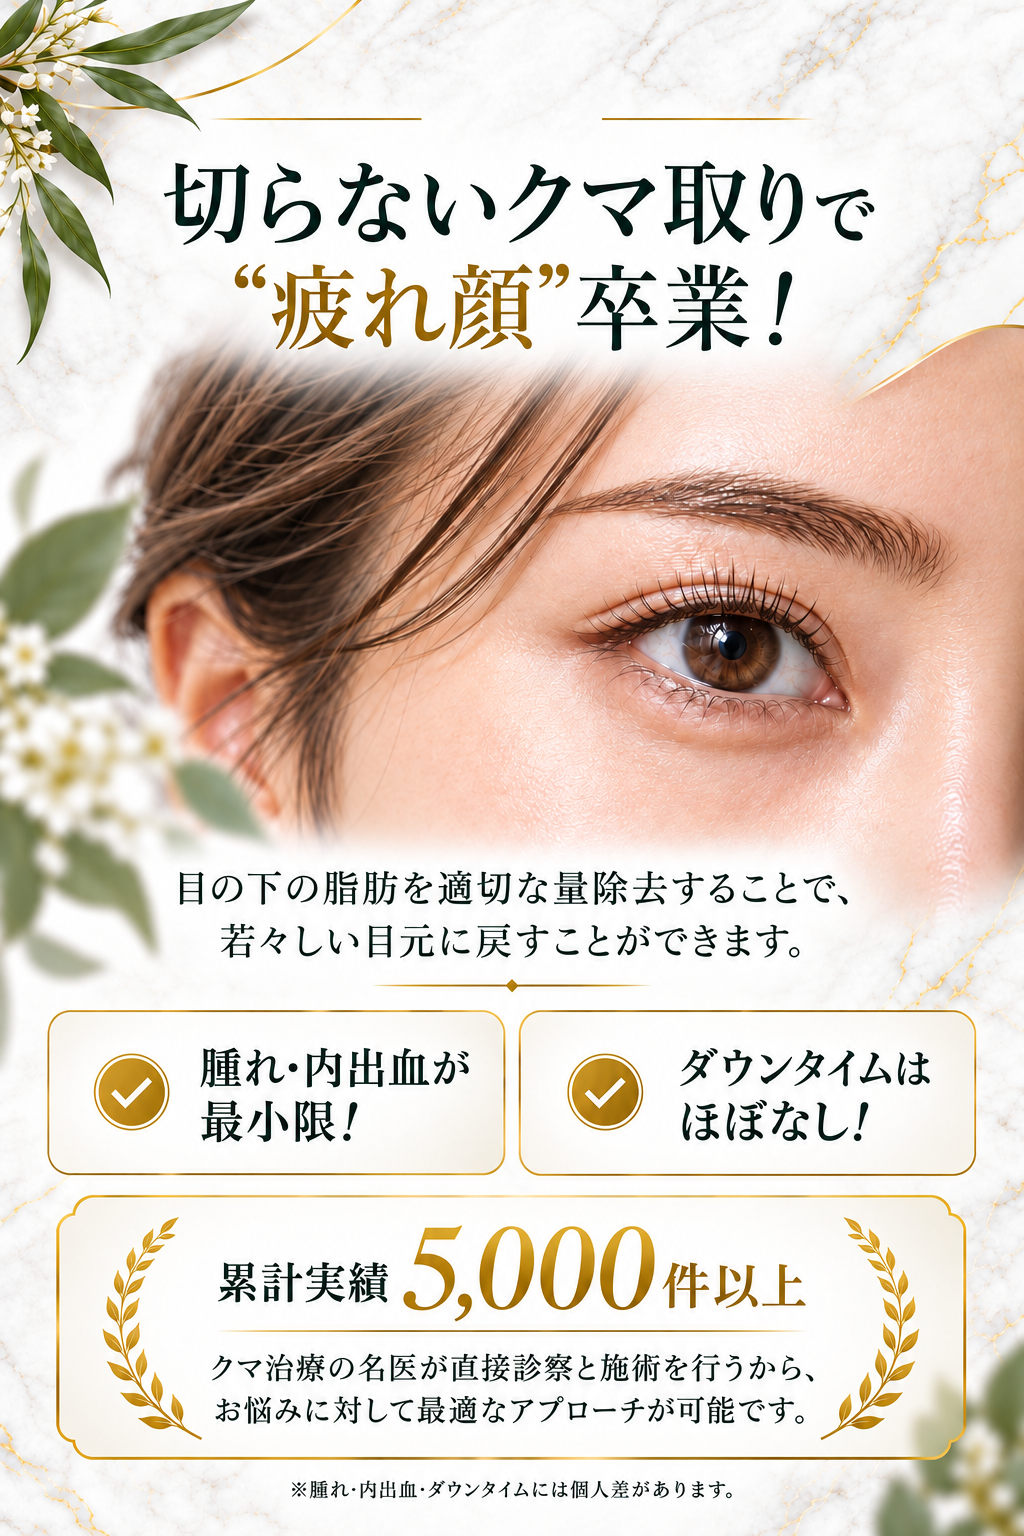
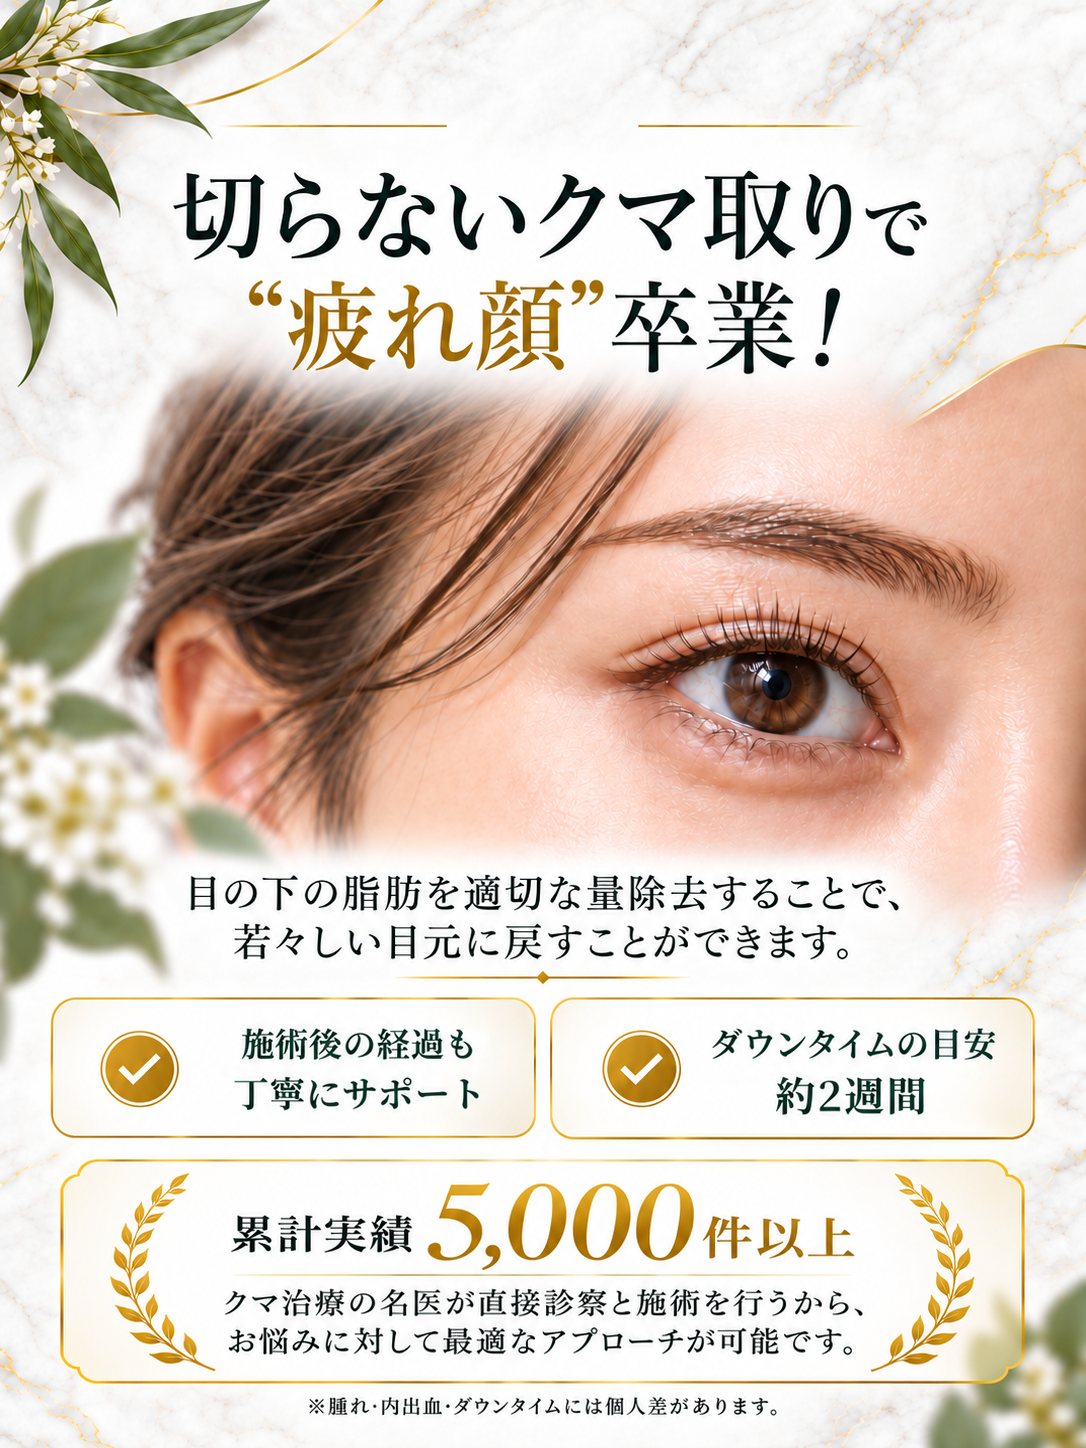
Fix: slide06ダウンタイム修正・slide07院内写真差替・CTAリンク更新

diff --git a/index.html b/index.html
@@ -55,7 +55,7 @@
 
     <!-- CTA フッター -->
     <footer class="cta" aria-label="カウンセリング予約">
-      <a class="cta-link" href="https://shirokuma.b4a.clinic/clinics/991/bookings/new/select/menu/" target="_blank" rel="noopener" aria-label="カウンセリング予約ページへ">
+      <a class="cta-link" href="https://shirokuma.b4a.clinic/clinics/991/bookings/new/select/date/?i=239568" target="_blank" rel="noopener" aria-label="カウンセリング予約ページへ">
         <img src="./assets/cta-banner.png" width="2172" height="724" alt="目元のクマ治療 カウンセリング予約" draggable="false">
         <span class="cta-btn-shine" aria-hidden="true"></span>
       </a>
